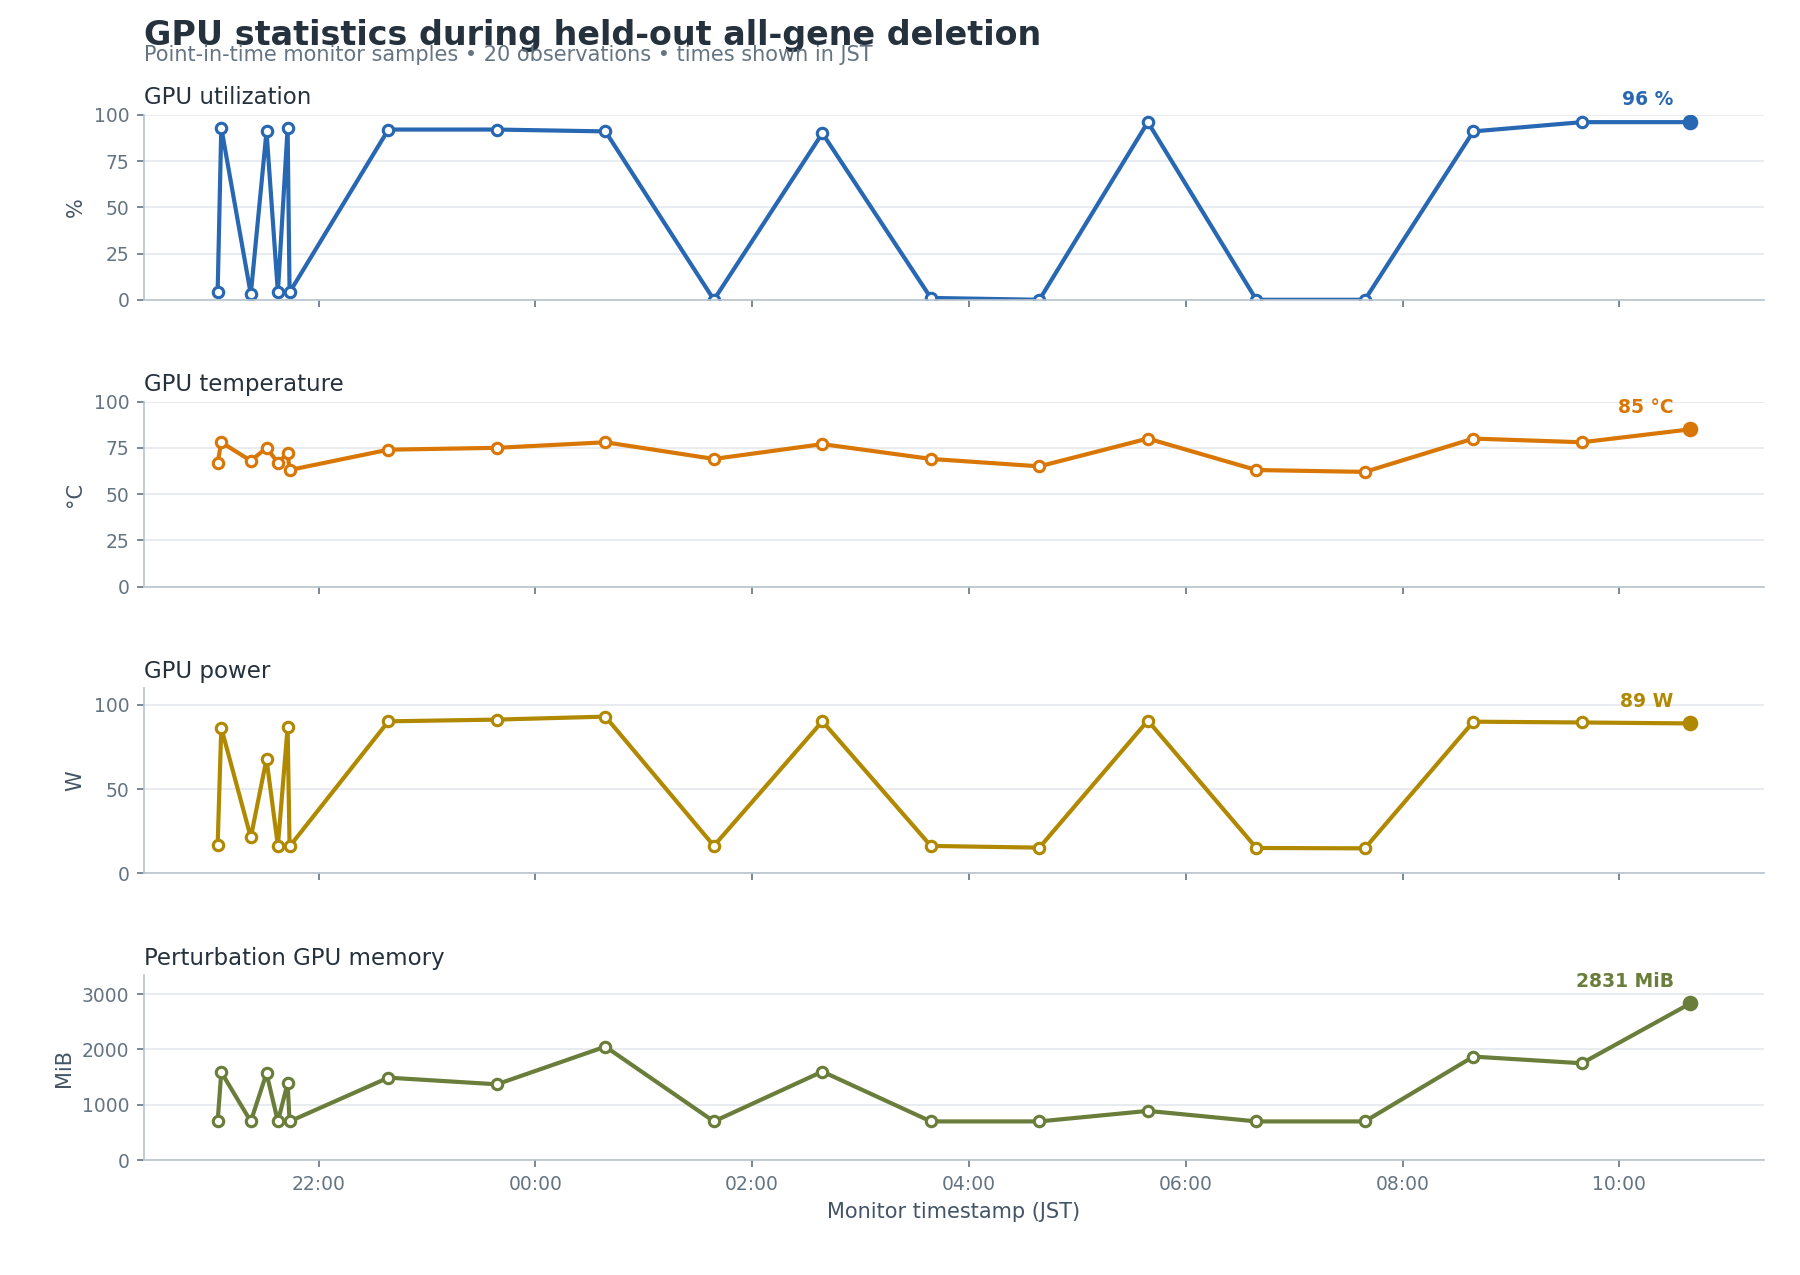
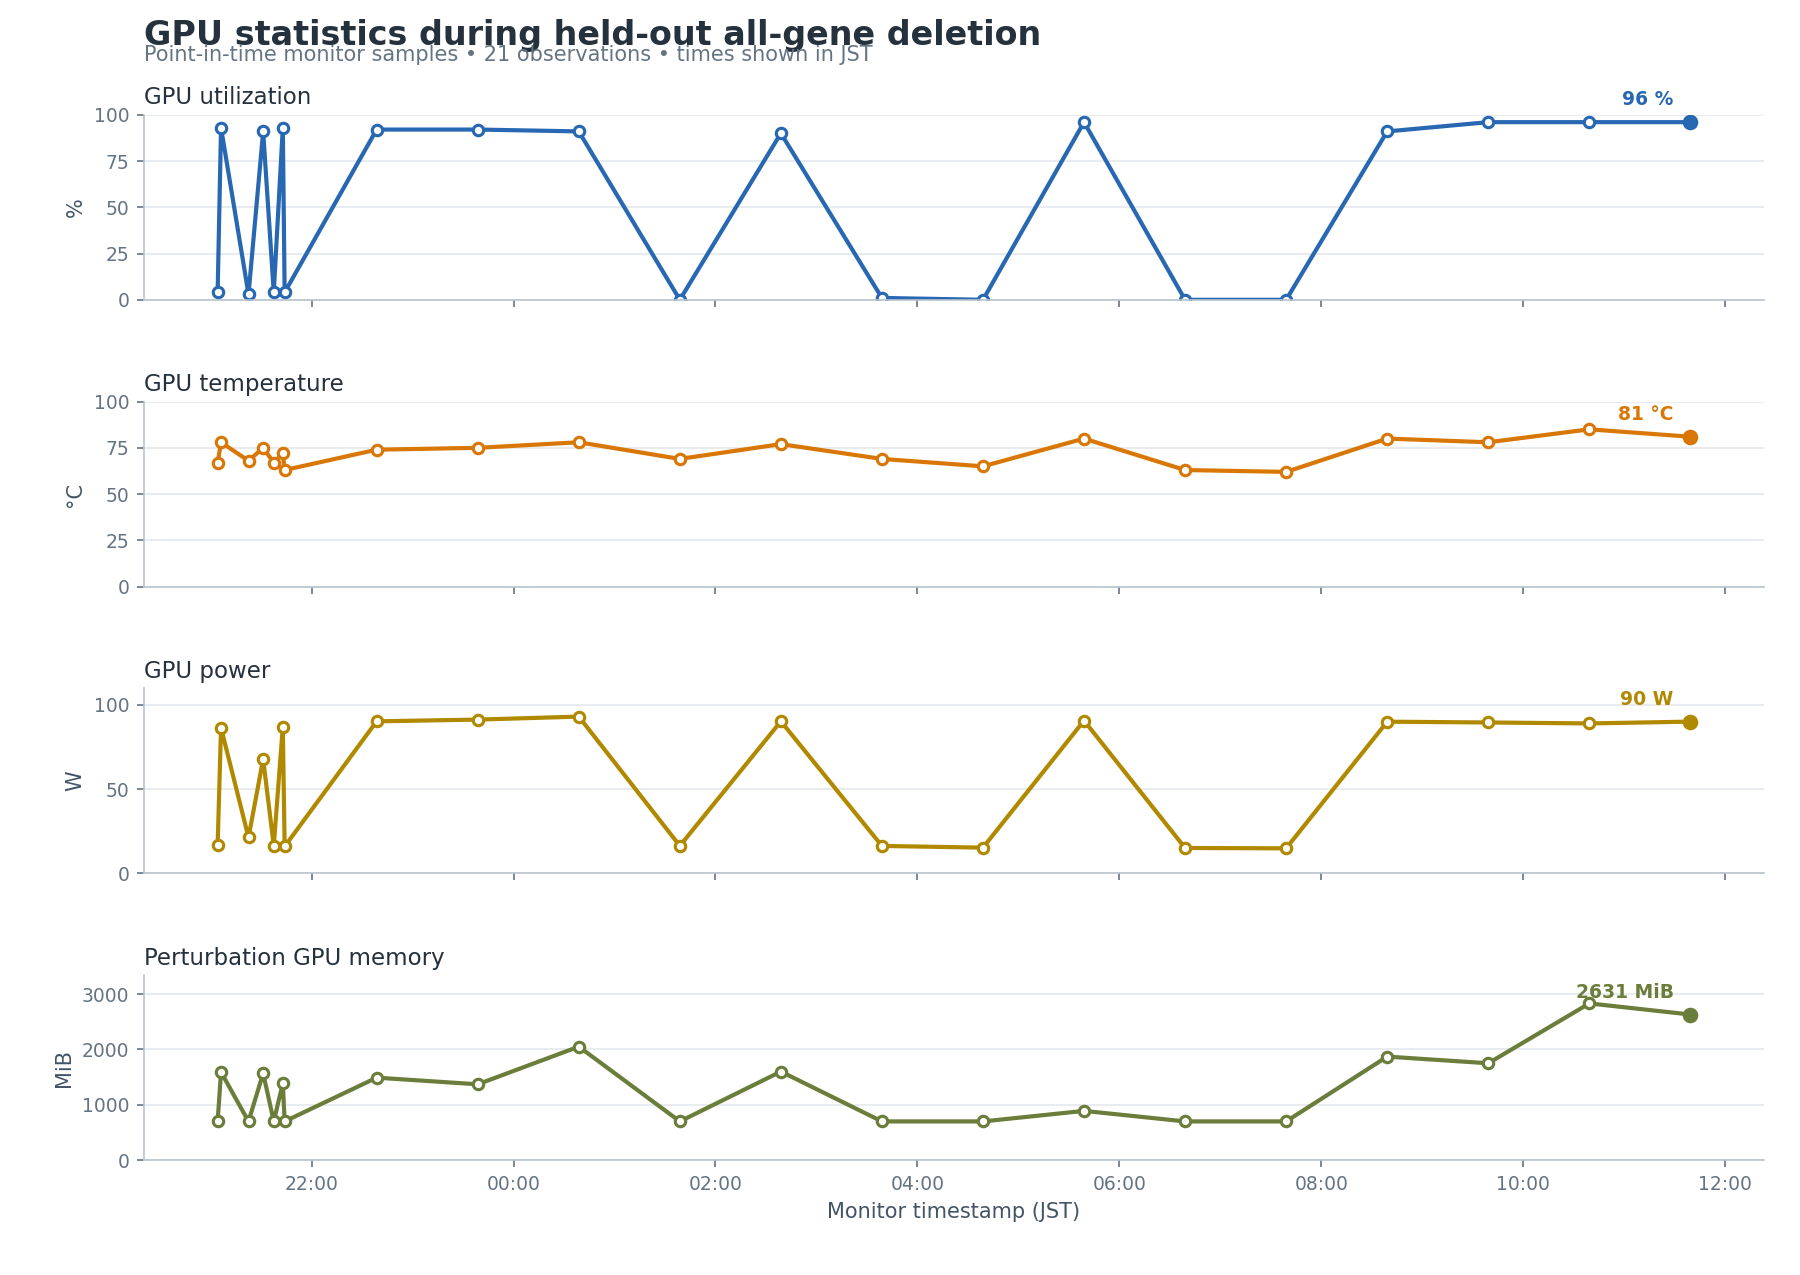
monitor: update perturbation status 2026-07-18 11:39 JST

diff --git a/current_workflow/monitoring/GPU_PROGRESS_REPORT.md b/current_workflow/monitoring/GPU_PROGRESS_REPORT.md
@@ -14,6 +14,39 @@ Newest snapshots appear first. Existing entries are retained below; the machine-
 
 ---
 
+## Snapshot — 2026-07-18T11:39:20+09:00
+
+Run status: **RUNNING**
+
+Overall cell progress: **2,073 / 3,379 (61.35%)**
+
+### GPU and memory
+
+| Metric | Current value |
+|---|---:|
+| GPU | NVIDIA GB10 |
+| GPU utilization | 96% |
+| GPU temperature | 81 C |
+| GPU power | 90.1 W |
+| Perturbation GPU memory | 2631 MiB |
+| System memory used | 39.4 GiB |
+| System memory available | 80.3 GiB |
+| Swap used | 0.0 GiB |
+
+### Perturbation progress
+
+| Source | Cells written | Shards complete | Raw files |
+|---|---:|---:|---:|
+| LUSC | 560 / 560 (100.00%) | 23 / 23 | 1,120 |
+| LUAD | 1,411 / 1,411 (100.00%) | 57 / 57 | 2,822 |
+| NORMAL | 102 / 1,408 (7.24%) | 4 / 57 | 206 |
+
+Statistics are generated after all shards for a source state complete. Cell
+counts include only cells with both raw checkpoint batches present.
+
+
+---
+
 ## Snapshot — 2026-07-18T10:39:17+09:00
 
 Run status: **RUNNING**
